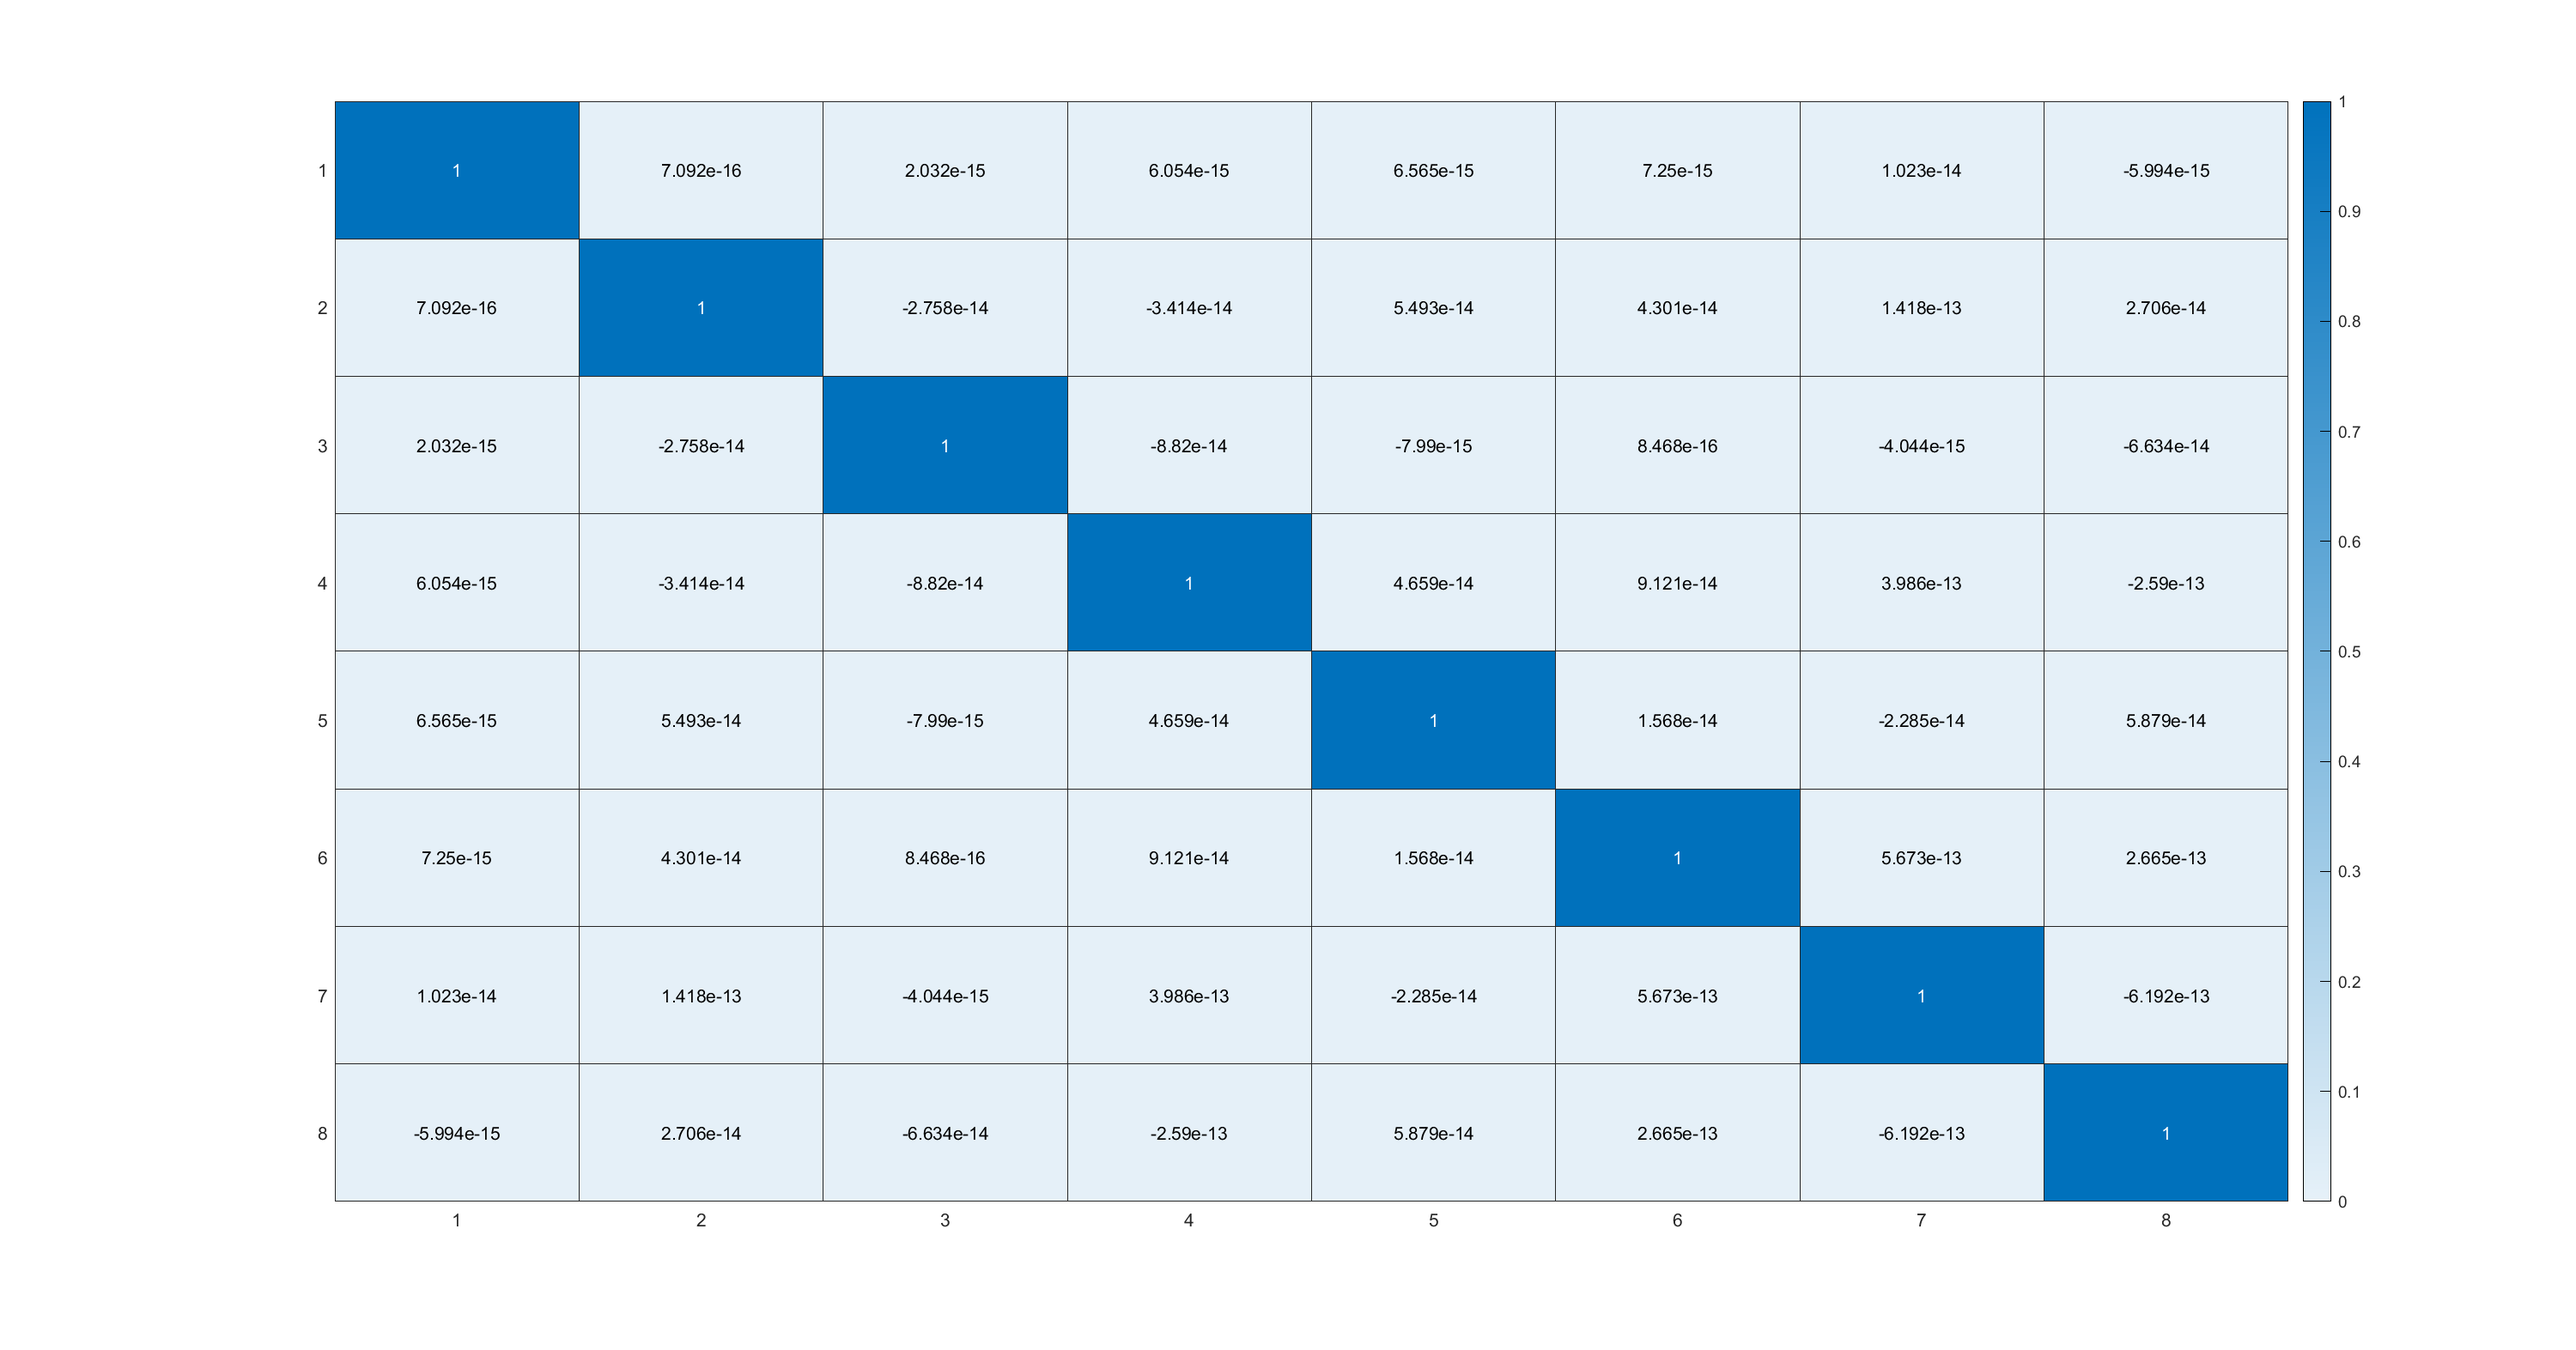
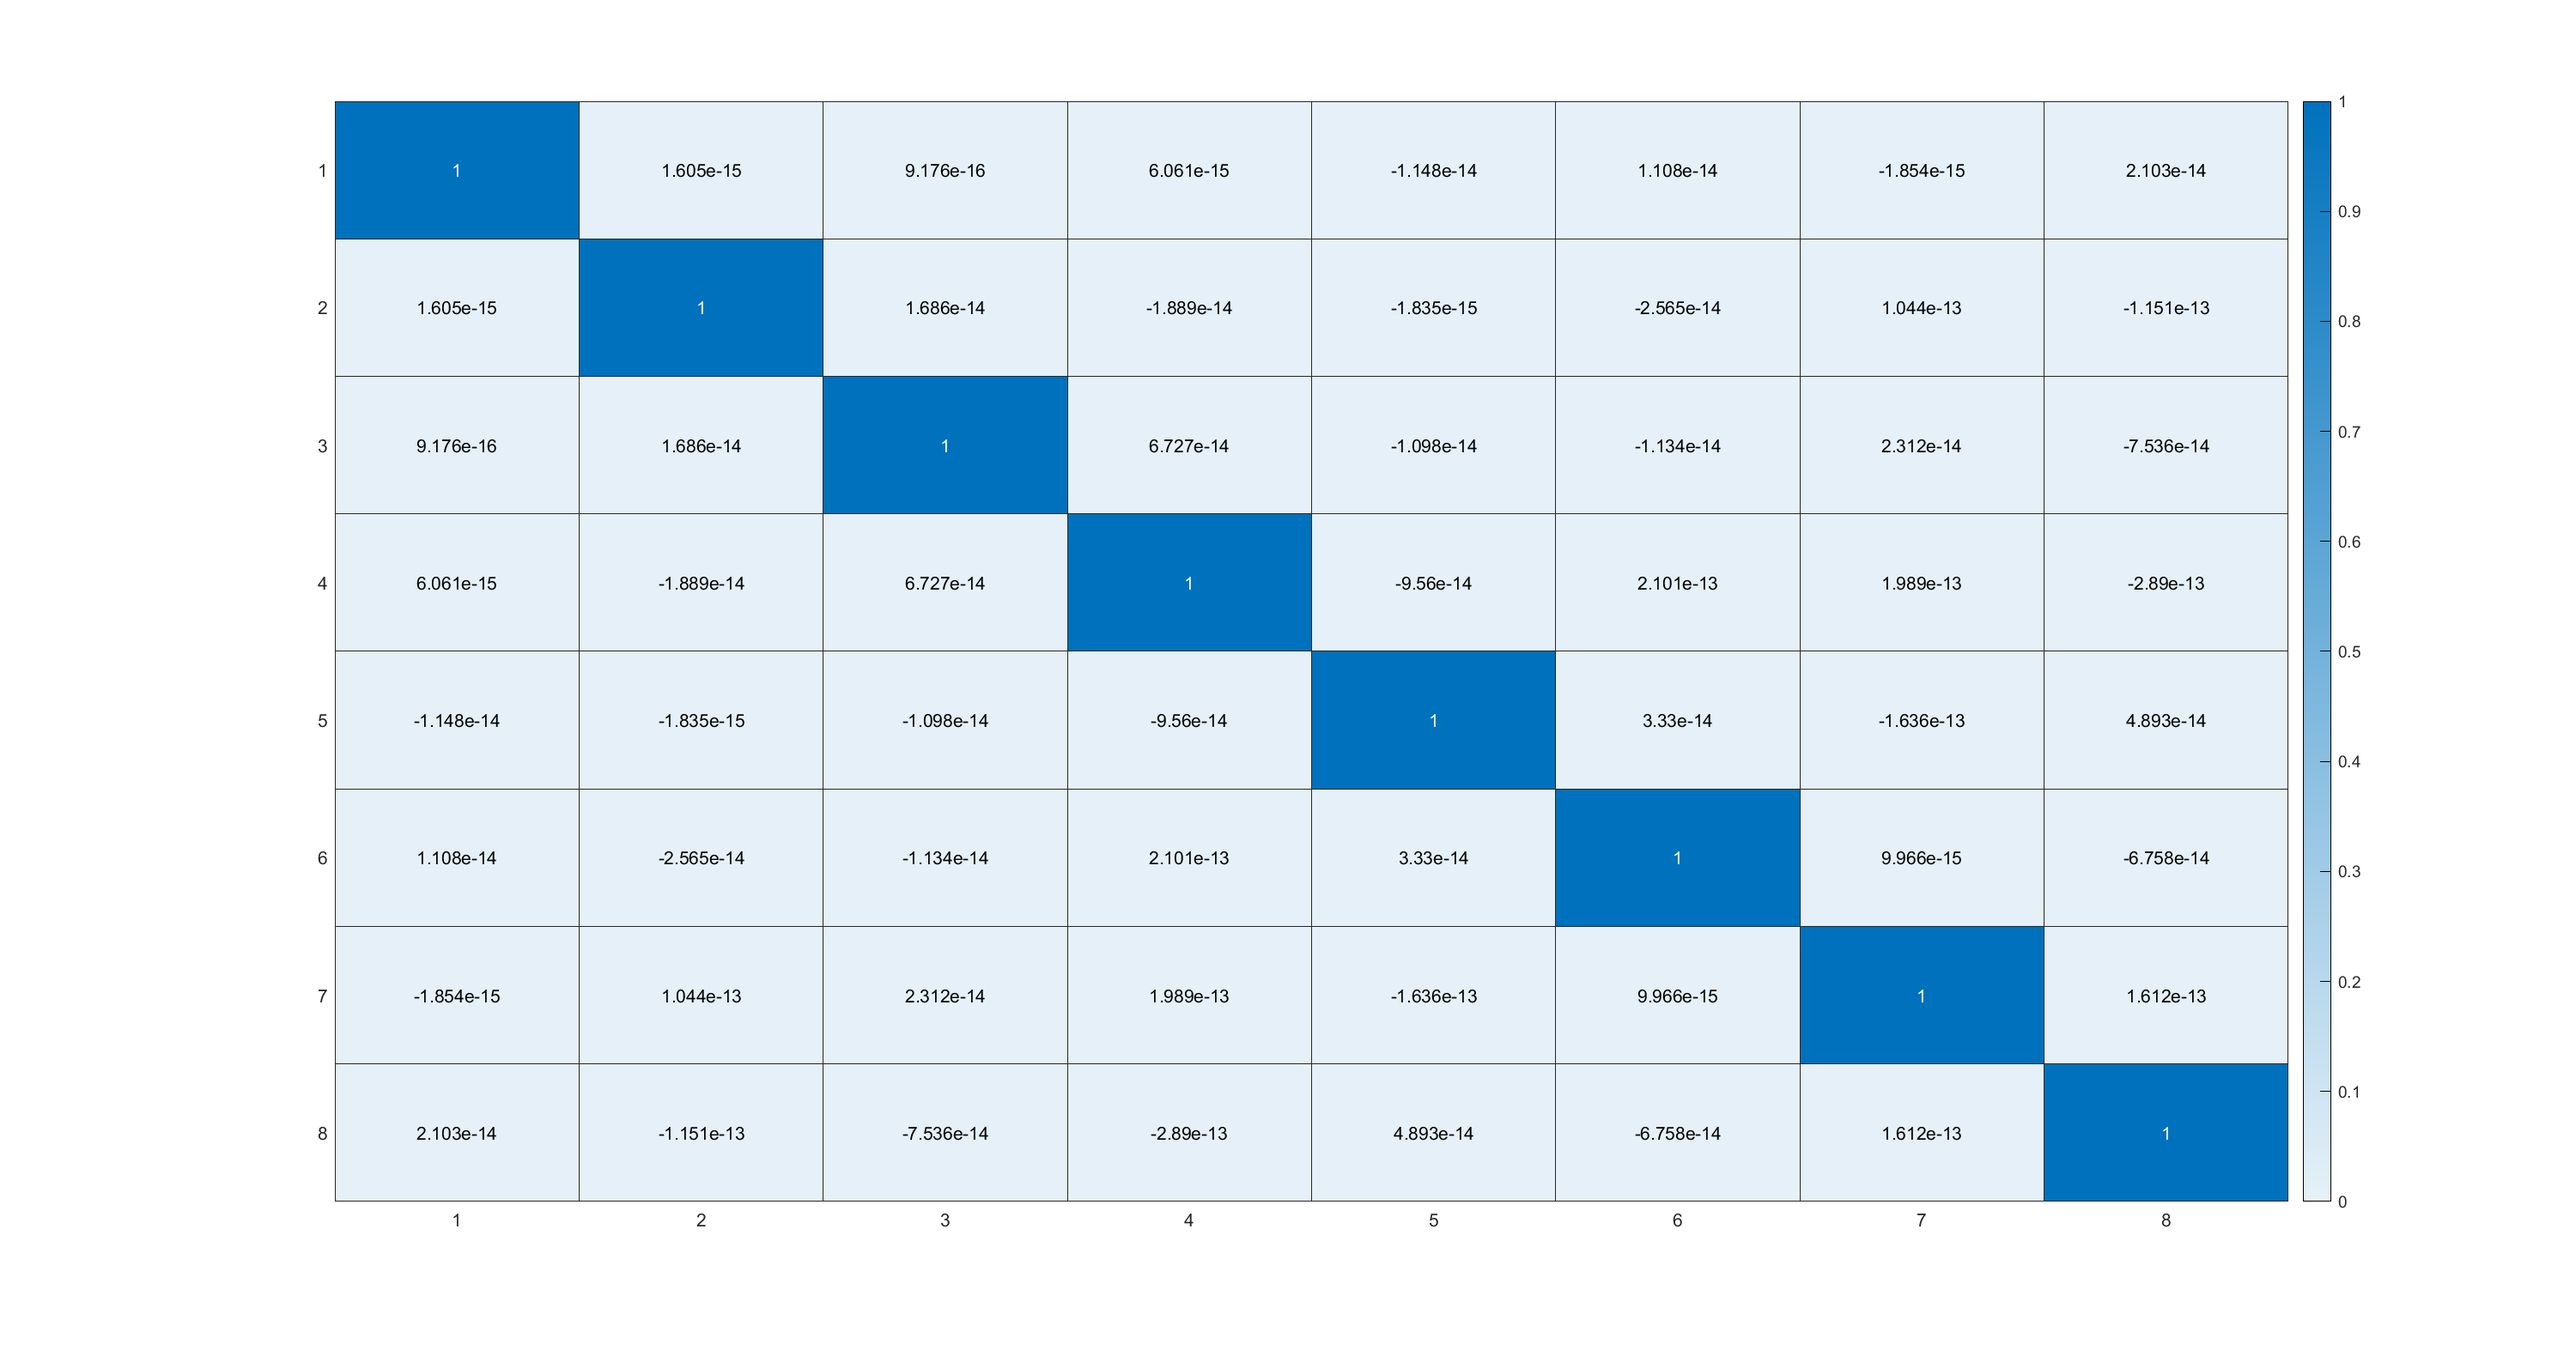
MASTER: Add new bayes results.

diff --git a/src/main2.m b/src/main2.m
@@ -63,8 +63,9 @@ for i=(1:size(Const.FUNCTIONS_NORMALIZATION, 2))
             sT.dim = size(train_data_partitionX, 1);
             sV.dim = size(val_data_partitionX, 1);
             %[predicted_train, predicted_test] = random_forest_classifier(sT, sV);
-            [predicted_train, predicted_test] = min_dist_classifier(sT, sV, "mahalanobis", "Binary");
-            [mse, accuracy, specificity, sensitivity, f_measure, auc] = eval_classifier(val_data_partitionY', predicted_test', Const.LABELS_BINARY, "mdc" + genre + "_" + norm_function + string(k));
+            %[predicted_train, predicted_test] = min_dist_classifier(sT, sV, "mahalanobis", "Binary");
+            [predicted_train, predicted_test] = bayes_classifier(sT, sV, "Binary");
+            [mse, accuracy, specificity, sensitivity, f_measure, auc] = eval_classifier(val_data_partitionY', predicted_test', Const.LABELS_BINARY, "bayes" + genre + "_" + norm_function + string(k));
     
             % Store the performance metrics for the current partition
             mse_array(k) = mse;
@@ -115,5 +116,5 @@ header = {'Normalization function', ...
 'Class', 'MSE', 'Accuracy', 'Specificity', 'Sensitivity', 'F-measure', 'AUC'};
 results_table = cell2table(results_table, 'VariableNames', header);
 % write the table to an Excel file
-writetable(results_table, 'mdc.xlsx');
+writetable(results_table, 'bayes.xlsx');
 % End of Minimum distance classifier
